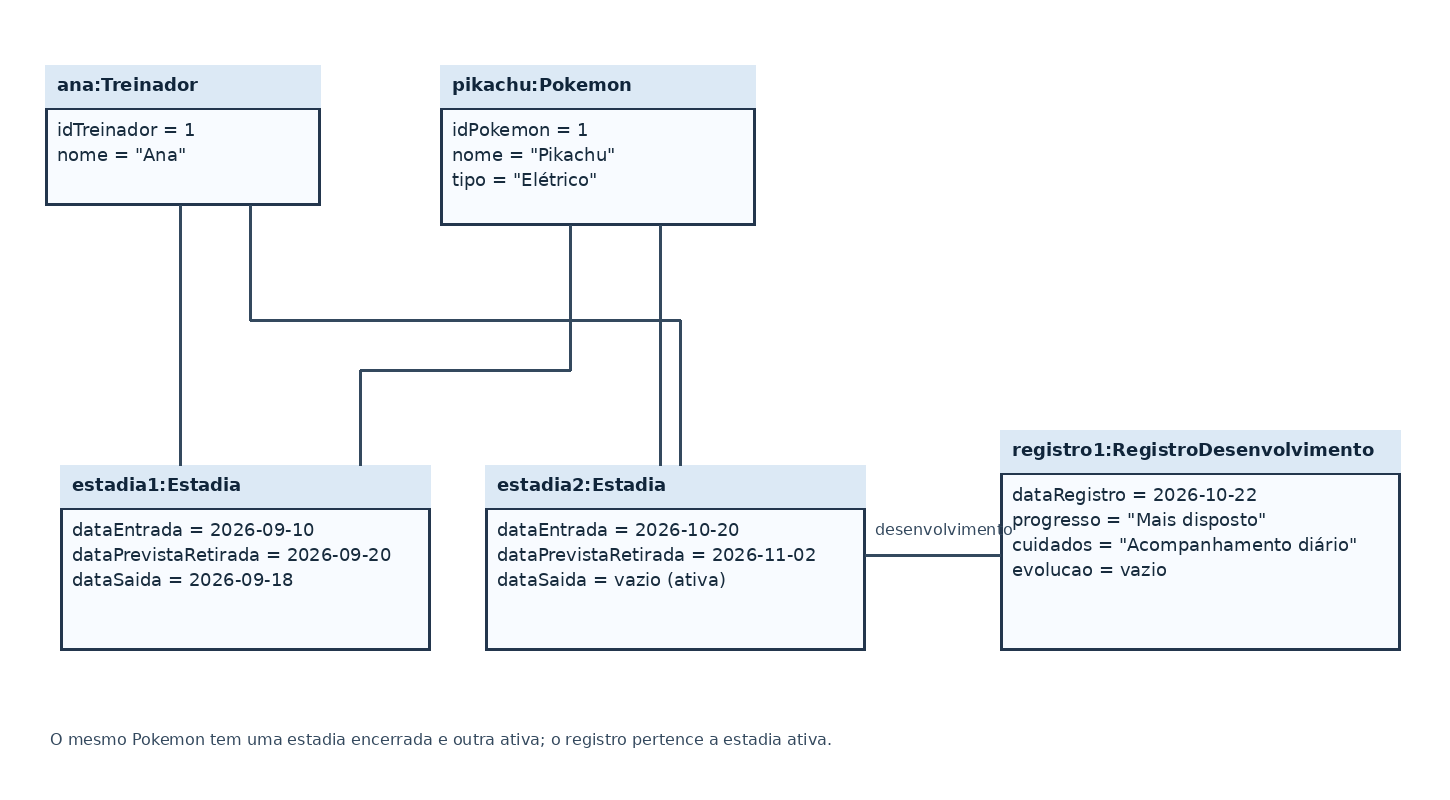
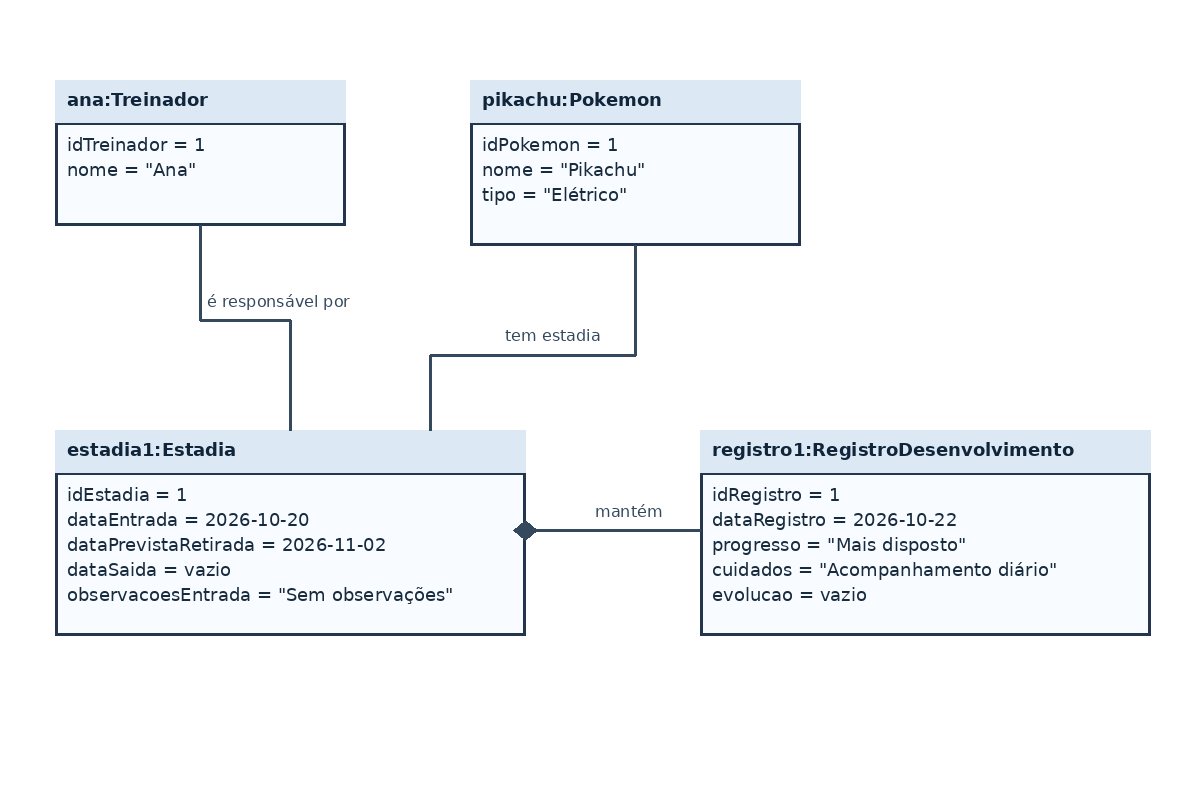
4.2.3: classes

Changed region(s): [[0.0308, 0.5312, 0.9867, 0.8125], [0.0308, 0.0625, 0.6783, 0.4688], [0.0308, 0.9062, 0.5858, 0.9375]]

diff --git a/docs/4.2.3-classes.md b/docs/4.2.3-classes.md
@@ -1,78 +1,103 @@
 # 4.2.3 Modelagem de Classes
 
-<!--
-Esta seção responde: o que o sistema precisa lembrar para que os casos de uso aconteçam, e como essas coisas se ligam?
-
-São cinco blocos, na ordem em que aparecem. Cada tabela já tem a primeira linha começada.
-Troque o que está em itálico pelo seu texto e acrescente linhas até o teto: 4 a 6 classes.
-
-As classes saem dos substantivos do fluxo que você especificou na 4.2.2 e dos RF da 4.2.1.
-O diagrama vai em dois arquivos com o mesmo nome: diagramas/classes.drawio (para editar) e diagramas/classes.png (para aparecer aqui).
-A numeração das figuras continua a da 4.2.2: se lá você chegou à Figura 1, aqui é a Figura 2.
-
-A mesma seção pronta, do BiblioTech, está em exemplo-bibliotech/docs/4.2.3-classes.md
-no repositório do modelo, com os diagramas em exemplo-bibliotech/diagramas/. O BiblioTech mostra a forma. As classes têm de ser suas.
-
-Quando terminar, pode apagar estes comentários.
--->
-
 ## Dos substantivos às classes
 
-<!-- Leia o fluxo principal da sua especificação e a sua lista de RF. Marque os substantivos.
-     Três filtros: detalhe de outra coisa vira atributo. Tela, botão e relatório não entram. O que está fora do sistema não entra. -->
+A 4.2.2 ainda está no molde, sem fluxo principal especificado. Por isso, as candidatas abaixo vêm dos requisitos funcionais e das histórias de usuário da 4.2.1, além do escopo da 4.1. Quando o fluxo principal for escrito, esta análise deverá ser conferida com os substantivos e as ações que ele trouxer.
 
 | Substantivo | De onde veio | Vira | Por quê |
 |---|---|---|---|
-| _substantivo_ | _passo N do fluxo, ou RFNN_ | _classe Nome, atributo de Nome, ou nada_ | _em uma frase_ |
+| Pokémon | Histórias 1 a 5; RF01, RF03, RF04 e RF05 | classe `Pokemon` | É o elemento acompanhado e reúne as estadias e registros de desenvolvimento. |
+| treinador | Histórias 4 e 5; RF01; 4.1, “Quem usa” | classe `Treinador` | O sistema precisa associar o treinador ao Pokémon recebido e à sua estadia. |
+| dona da Daycare | Histórias 1 a 3; RF01, RF02 e RF04 | ator, não classe | Ela opera os registros; os requisitos não definem dados próprios para uma classe de funcionária ou usuária. |
+| entrada, saída e permanência | Histórias 1 e 3; RF01, RF02 e RF05 | classe `Estadia` | Cada permanência tem suas próprias datas e pode ser consultada no histórico. |
+| previsão de retirada | História 5; RF06 | atributo de `Estadia` | É uma data referente à permanência do Pokémon; nesta versão, é informada pela dona. |
+| observações de entrada | História 1; RF01 | atributo de `Estadia` | São informações registradas quando o Pokémon chega. |
+| desenvolvimento, progresso, evolução e cuidados | História 2; RF04 e RF05 | classe `RegistroDesenvolvimento` | São registros que podem ocorrer ao longo da estadia e integrar o histórico. |
+| lista de Pokémon em estadia | RF03 | consulta das `Estadia` ativas | É o resultado de consultar estadias sem data de saída, não um dado independente. |
+| tela, botão e relatório | RNF de usabilidade e consultas da 4.1 | nada | São elementos de interface ou apresentação, não informações do domínio a guardar. |
+| Daycare | 4.1, contexto do sistema | nada | É o contexto do projeto; os requisitos não pedem cadastro dos dados do estabelecimento. |
+
+`dataSaida` e `dataPrevistaRetirada` são atributos de `Estadia`, não classes: são datas de uma permanência específica. A data de saída fica vazia enquanto a estadia estiver aberta. A previsão é informada pela dona da Daycare, pois os requisitos não definem uma regra de cálculo.
 
 ## Classes
 
-<!-- 4 a 6 classes. Nome no singular com inicial maiúscula. Atributos como nome: tipo (substantivo). Operações com parênteses (verbo).
-     A coluna "Veio de" diz o passo do fluxo ou o requisito que pede aquele atributo ou aquela operação. Sem origem, não entra. -->
+O modelo tem quatro classes. Cada atributo e operação está relacionado à sua origem na última coluna. Os identificadores permitem distinguir registros ao associá-los no histórico; serão confirmados quando o fluxo e o modelo de dados forem detalhados.
 
 | Classe | Atributos | Operações | Veio de |
 |---|---|---|---|
-| **_Nome_** | _- atributo: tipo_ | _+ operacao(): tipo_ | _passo N, RFNN_ |
+| **`Treinador`** | `idTreinador: int`<br>`nome: String` | Nenhuma própria | `idTreinador`: RF01 e RF05, para distinguir e referenciar o treinador ligado aos registros. `nome`: RF01, que exige registrar o treinador associado à entrada; o requisito não detalha outros dados pessoais. |
+| **`Pokemon`** | `idPokemon: int`<br>`nome: String`<br>`tipo: String` | `consultarHistorico(): List<Estadia>` | `idPokemon`: RF05, para distinguir o Pokémon no histórico. `nome` e `tipo`: RF01. `consultarHistorico`: RF05. |
+| **`Estadia`** | `idEstadia: int`<br>`dataEntrada: Date`<br>`dataPrevistaRetirada: Date`<br>`dataSaida: Date?`<br>`observacoesEntrada: String` | `registrarEntrada(dataEntrada: Date, dataPrevistaRetirada: Date, observacoes: String): void`<br>`registrarSaida(dataSaida: Date): void`<br>`estaAtiva(): boolean`<br>`calcularTempoPermanencia(): int` | `idEstadia`: RF05, para distinguir cada período no histórico. `dataEntrada` e `observacoesEntrada`: RF01. `dataPrevistaRetirada`: RF06. `dataSaida`: RF02. `registrarEntrada`: RF01. `registrarSaida`: RF02. `estaAtiva`: RF03. `calcularTempoPermanencia`: objetivo da 4.1 de acompanhar o tempo de permanência. |
+| **`RegistroDesenvolvimento`** | `idRegistro: int`<br>`dataRegistro: Date`<br>`progresso: String`<br>`cuidados: String`<br>`evolucao: String?` | `registrar(progresso: String, cuidados: String, evolucao: String?): void` | `idRegistro`: RF05, para distinguir registros no histórico. `dataRegistro`: RF04 e RF05, para situar o acompanhamento no tempo. `progresso`, `cuidados` e `evolucao`: RF04. `registrar`: RF04. |
+
+`Date?` indica que o campo pode ficar vazio. A estadia está ativa quando `dataSaida` não foi informada; por isso o modelo não duplica essa informação em um atributo `status`. `evolucao` é opcional para os registros em que não houver evolução.
 
 ## Diagrama de classes
 
-<!-- Desenhe no draw.io. Caixa de três faixas por classe. Associação: linha contínua, verbo no meio, número nas duas pontas, colado na classe que ele conta.
-     Herança: triângulo vazado na classe geral, sem número, só onde "é um tipo de" é verdadeiro.
-     Parte e todo: losango do lado do todo, só onde "é parte de" é verdadeiro. Apagou o todo e a parte morreu junto: losango cheio (composição). A parte sobreviveu: losango vazado (agregação).
-     Salve diagramas/classes.drawio e exporte diagramas/classes.png. Legenda acima, fonte abaixo, e a figura descrita no texto. -->
+**Figura 2 – Diagrama de classes do DaycarePk**
 
-**Figura _N_ – Diagrama de classes do _Nome do Sistema_**
-
-![Diagrama de classes](../diagramas/classes.png)
+![Diagrama de classes do DaycarePk: quatro classes, associações com verbos e multiplicidades e composição entre Estadia e RegistroDesenvolvimento](../diagramas/classes.png)
 
 Fonte: Autoria própria (2026).
 
-_Descreva a figura. As associações com os números lidos como frase, a herança ou por que não há, a parte e todo ou por que não há, e o teste que decidiu._
+As linhas contínuas representam associações. Um `Treinador` é responsável por zero ou várias `Estadia`; cada estadia se refere a exatamente um treinador. Um `Pokemon` tem zero ou várias estadias; cada estadia pertence a exatamente um Pokémon. Os números ficam junto da classe que contam.
+
+O losango cheio junto de `Estadia` indica composição: uma estadia mantém zero ou vários `RegistroDesenvolvimento`, e cada registro pertence a exatamente uma estadia. A regra definida para este modelo é que, se uma estadia for excluída, seus registros de desenvolvimento também serão excluídos. Não há herança porque os requisitos não definem especializações de classe, nem agregação porque não foi definida uma relação parte-todo em que a parte sobreviva à exclusão do todo.
 
 ## Teste de objetos
 
-<!-- Pegue uma situação real do seu cliente: um pedido, um atendimento, uma reserva. Liste os objetos dela, 3 ou 4 caixas no formato nome: Classe, com os valores.
-     Depois leia cada linha do seu diagrama olhando para os objetos: o número que você escreveu aguenta a situação real? -->
+Considere este exemplo de atendimento: Ana deixou seu Pikachu na Daycare em 20 de outubro de 2026; a previsão de retirada informada foi 2 de novembro, e a dona registrou o progresso e os cuidados em 22 de outubro.
 
-_Conte a situação em uma ou duas frases._
+**Figura 3 – Diagrama de objetos de uma estadia do DaycarePk**
+
+![Diagrama de objetos do DaycarePk: Ana, um Pikachu, uma estadia ativa e seu registro de desenvolvimento](../diagramas/objetos.png)
+
+Fonte: Autoria própria (2026).
 
 | Objeto | Classe | Valores |
 |---|---|---|
-| `_nome_` | _Classe_ | _atributo = valor, atributo = valor_ |
+| `ana` | `Treinador` | `idTreinador = 1`, `nome = "Ana"` |
+| `pikachu` | `Pokemon` | `idPokemon = 1`, `nome = "Pikachu"`, `tipo = "Elétrico"` |
+| `estadia1` | `Estadia` | `idEstadia = 1`, `dataEntrada = 2026-10-20`, `dataPrevistaRetirada = 2026-11-02`, `dataSaida = vazio`, `observacoesEntrada = "Sem observações"` |
+| `registro1` | `RegistroDesenvolvimento` | `idRegistro = 1`, `dataRegistro = 2026-10-22`, `progresso = "Mais disposto"`, `cuidados = "Acompanhamento diário"`, `evolucao = vazio` |
 
-**Ligações:** _`objeto` e `objeto`, ..._
+**Ligações:** `ana` e `estadia1`, `pikachu` e `estadia1`, `estadia1` e `registro1`.
 
 **O que o teste confirma**
 
-- _**Frase lida do diagrama.** O que os objetos mostram sobre ela: confirmou, ou derrubou e o que mudou._
+- **Cada estadia se refere a um treinador e a um Pokémon.** `estadia1` está ligada a exatamente um objeto de cada classe.
+- **Uma estadia pode ter registros de desenvolvimento.** `registro1` pertence à estadia em que o progresso foi observado.
+- **A estadia está ativa enquanto não tem data de saída.** O campo `dataSaida` vazio corresponde ao resultado verdadeiro de `estaAtiva()`.
+- **O registro depende da estadia.** Pela composição definida, excluir `estadia1` também exclui `registro1`.
+
+O exemplo cabe nas multiplicidades do diagrama e ilustra as relações e o ciclo de vida definidos. Uma situação com várias estadias ou vários registros deverá ser conferida novamente quando o fluxo principal for especificado.
 
 ## Rastreabilidade com a 4.2.2
 
-<!-- Toda operação e os atributos principais, um por linha, com o passo do fluxo ou o requisito que a pede.
-     Depois responda as três perguntas. -->
+A 4.2.2 ainda não contém atores, casos de uso ou fluxo principal. A coluna de origem abaixo aponta para os RFs e a 4.1 que sustentam os elementos; a correspondência a casos de uso e passos específicos será completada quando a 4.2.2 for preenchida.
 
 | Operação ou atributo | Classe | De onde veio |
 |---|---|---|
-| _operacao()_ | _Classe_ | _passo N de Nome do caso de uso, ou RFNN_ |
+| `idTreinador` | `Treinador` | RF01 e RF05: distinguir e referenciar o treinador associado aos registros. |
+| `nome` | `Treinador` | RF01: registrar o treinador associado à entrada; o formato exato de identificação ainda precisa ser confirmado. |
+| `idPokemon` | `Pokemon` | RF05: distinguir o Pokémon no histórico. |
+| `nome`, `tipo` | `Pokemon` | RF01: informações registradas na entrada. |
+| `consultarHistorico()` | `Pokemon` | RF05: manter o histórico de permanência do Pokémon. |
+| `idEstadia` | `Estadia` | RF05: distinguir os períodos que compõem o histórico. |
+| `dataEntrada`, `observacoesEntrada` | `Estadia` | RF01: registrar a entrada com observações. |
+| `dataPrevistaRetirada` | `Estadia` | RF06: indicar a previsão de retirada, informada pela dona. |
+| `dataSaida` | `Estadia` | RF02: registrar a saída do Pokémon. |
+| `registrarEntrada()` | `Estadia` | RF01: registrar a entrada na Daycare. |
+| `registrarSaida()` | `Estadia` | RF02: registrar a saída e a devolução ao treinador. |
+| `estaAtiva()` | `Estadia` | RF03: selecionar os Pokémon que ainda estão em estadia. |
+| `calcularTempoPermanencia()` | `Estadia` | Objetivo da 4.1: acompanhar o tempo de permanência. |
+| `idRegistro` | `RegistroDesenvolvimento` | RF05: distinguir registros no histórico. |
+| `dataRegistro` | `RegistroDesenvolvimento` | RF04 e RF05: situar os registros de desenvolvimento no histórico. |
+| `progresso`, `cuidados`, `evolucao` | `RegistroDesenvolvimento` | RF04: acompanhar progresso, evolução e cuidados realizados. |
+| `registrar()` | `RegistroDesenvolvimento` | RF04: registrar o desenvolvimento do Pokémon. |
 
-_Toda operação tem origem? Todo passo do sistema tem casa? O que a modelagem mudou?_
+**Toda operação tem origem?** Sim: as operações estão ligadas a RFs ou ao objetivo da 4.1. A associação dos registros de desenvolvimento a uma estadia e a regra de composição são decisões do modelo que deverão ser confrontadas com o fluxo e validadas com a cliente.
+
+**Todo passo do sistema tem casa?** Ainda não é possível verificar: a 4.2.2 não tem fluxo principal. Quando ele existir, cada passo executado pelo sistema deverá ser associado a uma operação ou classe.
+
+**O que a modelagem mudou?** A 4.2.2 ainda não especificou substantivos nem ações; por isso, nenhuma mudança vinda do fluxo foi aplicada. Esta versão deriva as classes dos RFs e das histórias de usuário e deverá ser revisada quando a especificação estiver pronta.
